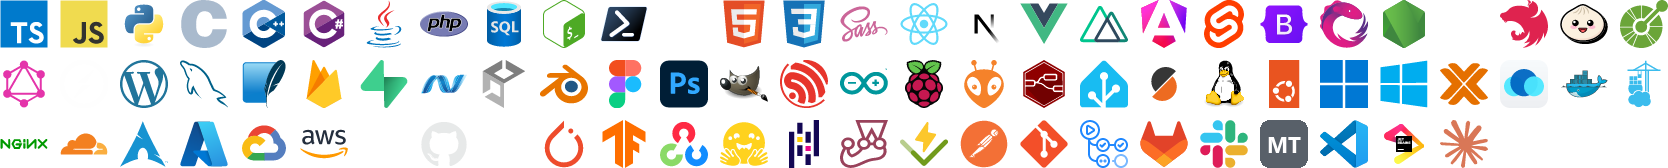
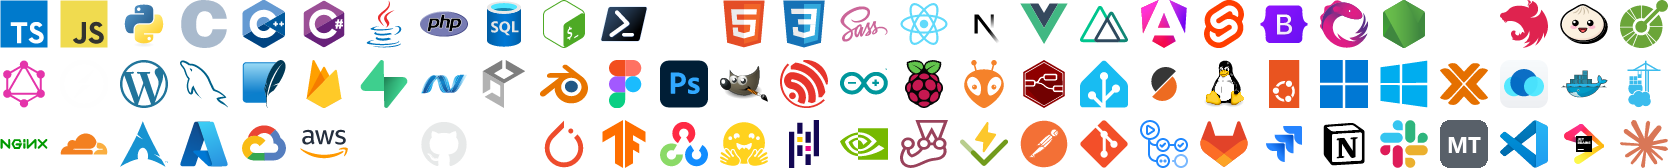
Tech Stack: add Jira, Notion, CUDA

Changed region(s): [[0.4988, 0.7143, 1.0, 1.0]]

diff --git a/scripts/tech.py b/scripts/tech.py
@@ -53,6 +53,7 @@ ICONS = {
     "Ollama": ("ollama", "ollama"), "PyTorch": ("pytorch", "pytorch"), "TensorFlow": ("tensorflow", "tensorflow"),
     "OpenCV": ("opencv", "opencv"), "Hugging Face": (None, "huggingface"), "Pandas / NumPy": ("pandas", "pandas"),
     "Solidity": ("solidity", "solidity"), "RxJS": ("rxjs", "reactivex"), "WordPress": (None, "wordpress"),
+    "Jira": ("jira", "jira"), "Notion": ("notion", "notion"), "CUDA": (None, "nvidia"),
     "Jest": ("jest", "jest"), "Vitest": ("vitest", "vitest"), "Postman": ("postman", "postman"),
     "Git": ("git", "git"), "GitHub": ("github", "github"), "GitHub Actions": ("githubactions", "githubactions"),
     "GitLab": ("gitlab", "gitlab"), "Slack": ("slack", "slack"), "Microsoft Teams": (None, None),

diff --git a/README.md b/README.md
@@ -18,7 +18,7 @@
 
 <picture>
   <source media="(prefers-color-scheme: dark)" srcset="./assets/tech/stack-dark.png">
-  <img src="./assets/tech/stack-light.png" alt="Tech stack: TypeScript, JavaScript, Python, C, C++, C#, Java, PHP, SQL, Bash / Shell, PowerShell, Solidity, HTML, CSS, Sass / SCSS, React, Next.js, Vue, Nuxt, Angular, Svelte, Bootstrap, RxJS, Node.js, Express, NestJS, Bun, REST API, GraphQL, WebSockets, WordPress, MySQL, SQLite, Firebase, Supabase, .NET / WPF, Unity, Blender, Figma, Photoshop, GIMP, ESP32, Arduino, Raspberry Pi, PlatformIO, Node-RED, Home Assistant, PrusaSlicer / Cura, Linux, Ubuntu, Windows, Windows Server, Proxmox, CasaOS, Docker, Portainer, Nginx, Cloudflare, Omarchy, Microsoft Azure, Google Cloud, AWS, Vercel, GitHub Pages, Ollama, PyTorch, TensorFlow, OpenCV, Hugging Face, Pandas / NumPy, Jest, Vitest, Postman, Git, GitHub Actions, GitLab, Slack, Microsoft Teams, VS Code, JetBrains IDEs, Claude Code" width="834">
+  <img src="./assets/tech/stack-light.png" alt="Tech stack: TypeScript, JavaScript, Python, C, C++, C#, Java, PHP, SQL, Bash / Shell, PowerShell, Solidity, HTML, CSS, Sass / SCSS, React, Next.js, Vue, Nuxt, Angular, Svelte, Bootstrap, RxJS, Node.js, Express, NestJS, Bun, REST API, GraphQL, WebSockets, WordPress, MySQL, SQLite, Firebase, Supabase, .NET / WPF, Unity, Blender, Figma, Photoshop, GIMP, ESP32, Arduino, Raspberry Pi, PlatformIO, Node-RED, Home Assistant, PrusaSlicer / Cura, Linux, Ubuntu, Windows, Windows Server, Proxmox, CasaOS, Docker, Portainer, Nginx, Cloudflare, Omarchy, Microsoft Azure, Google Cloud, AWS, Vercel, GitHub Pages, Ollama, PyTorch, TensorFlow, OpenCV, Hugging Face, Pandas / NumPy, CUDA, Jest, Vitest, Postman, Git, GitHub Actions, GitLab, Jira, Notion, Slack, Microsoft Teams, VS Code, JetBrains IDEs, Claude Code" width="834">
 </picture>
 
 ### 🧬 Activity<br><picture><source media="(prefers-color-scheme: dark)" srcset="./assets/line-dark.svg"><img src="./assets/line-light.svg" width="100%" alt=""></picture>

diff --git a/assets/tech/readme-block.md b/assets/tech/readme-block.md
@@ -1,4 +1,4 @@
 <picture>
   <source media="(prefers-color-scheme: dark)" srcset="./assets/tech/stack-dark.png">
-  <img src="./assets/tech/stack-light.png" alt="Tech stack: TypeScript, JavaScript, Python, C, C++, C#, Java, PHP, SQL, Bash / Shell, PowerShell, Solidity, HTML, CSS, Sass / SCSS, React, Next.js, Vue, Nuxt, Angular, Svelte, Bootstrap, RxJS, Node.js, Express, NestJS, Bun, REST API, GraphQL, WebSockets, WordPress, MySQL, SQLite, Firebase, Supabase, .NET / WPF, Unity, Blender, Figma, Photoshop, GIMP, ESP32, Arduino, Raspberry Pi, PlatformIO, Node-RED, Home Assistant, PrusaSlicer / Cura, Linux, Ubuntu, Windows, Windows Server, Proxmox, CasaOS, Docker, Portainer, Nginx, Cloudflare, Omarchy, Microsoft Azure, Google Cloud, AWS, Vercel, GitHub Pages, Ollama, PyTorch, TensorFlow, OpenCV, Hugging Face, Pandas / NumPy, Jest, Vitest, Postman, Git, GitHub Actions, GitLab, Slack, Microsoft Teams, VS Code, JetBrains IDEs, Claude Code" width="834">
+  <img src="./assets/tech/stack-light.png" alt="Tech stack: TypeScript, JavaScript, Python, C, C++, C#, Java, PHP, SQL, Bash / Shell, PowerShell, Solidity, HTML, CSS, Sass / SCSS, React, Next.js, Vue, Nuxt, Angular, Svelte, Bootstrap, RxJS, Node.js, Express, NestJS, Bun, REST API, GraphQL, WebSockets, WordPress, MySQL, SQLite, Firebase, Supabase, .NET / WPF, Unity, Blender, Figma, Photoshop, GIMP, ESP32, Arduino, Raspberry Pi, PlatformIO, Node-RED, Home Assistant, PrusaSlicer / Cura, Linux, Ubuntu, Windows, Windows Server, Proxmox, CasaOS, Docker, Portainer, Nginx, Cloudflare, Omarchy, Microsoft Azure, Google Cloud, AWS, Vercel, GitHub Pages, Ollama, PyTorch, TensorFlow, OpenCV, Hugging Face, Pandas / NumPy, CUDA, Jest, Vitest, Postman, Git, GitHub Actions, GitLab, Jira, Notion, Slack, Microsoft Teams, VS Code, JetBrains IDEs, Claude Code" width="834">
 </picture>
